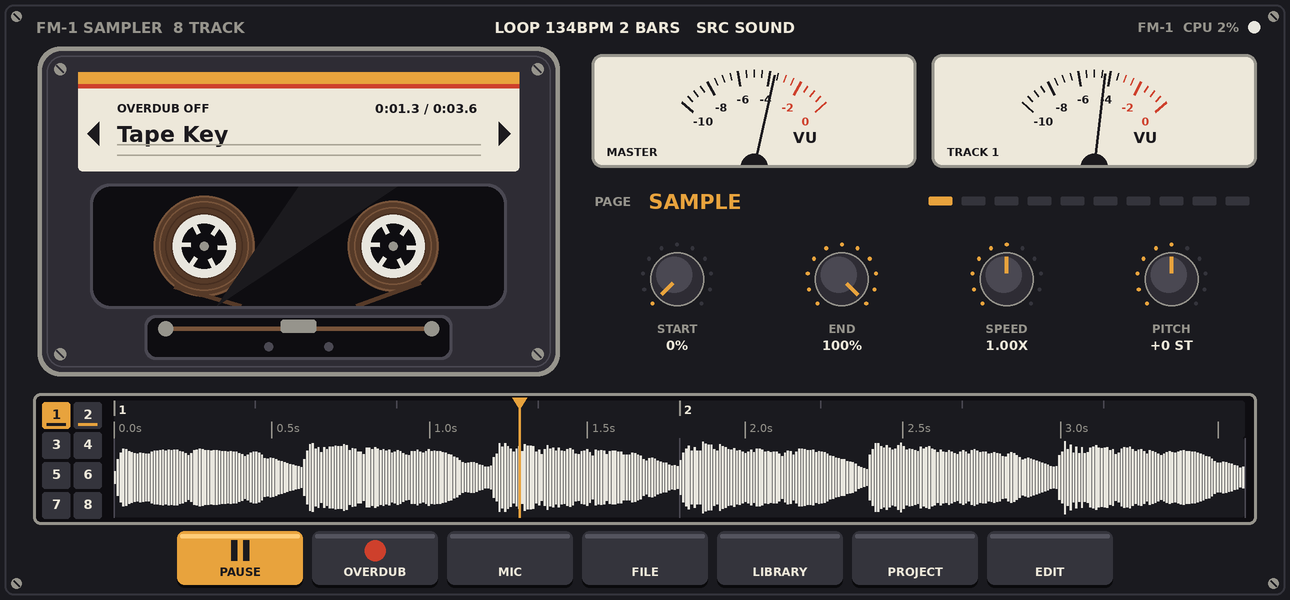
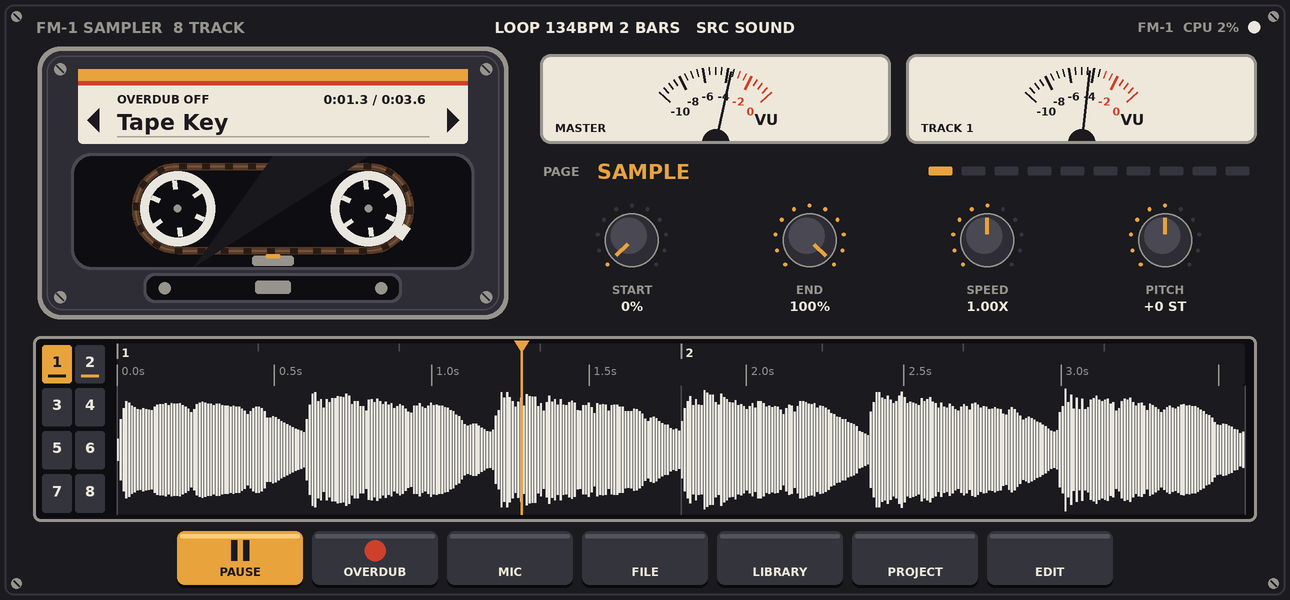
Deck: lower cassette and right panel, taller timeline, cassette shows a tape loop
Claude-Session: https://claude.ai/code/session_016UqCt9T8NsvfVfNVcqrtLq

diff --git a/engine/ui/SamplerUI.cpp b/engine/ui/SamplerUI.cpp
@@ -117,18 +117,15 @@ constexpr uint32_t kPanel = theme::argb(26, 26, 31), kPanelHi = theme::argb(52, 
     kPaper = theme::argb(237, 232, 218), kInk = theme::argb(28, 26, 30), kRed = theme::argb(206, 64, 44), kAmber = theme::argb(232, 163, 61);
 }
 
-// Tape pack of radius r with its winding rings, a white hub with six teeth turned by `ang`.
+// A tape roller: white hub with six teeth turned by `ang`.
 void SamplerUI::reel(float cx, float cy, float r, float ang) {
-    circle(cx, cy, r, kTape);
-    for (float rr = 22; rr < r - 1; rr += 4) stroke({cx - rr, cy - rr, 2 * rr, 2 * rr}, rr, rr < r - 5 ? theme::argb(70, 46, 32) : kTapeHi, 1);
-    stroke({cx - r, cy - r, 2 * r, 2 * r}, r, kTapeHi, 1.5f);
-    circle(cx, cy, 21, kReel);
-    circle(cx, cy, 15, kGlass);
+    circle(cx, cy, r, kReel);
+    circle(cx, cy, r - 6, kGlass);
     for (int k = 0; k < 6; k++) {
         const float a = ang + k * kPi / 3;
-        line(cx + 15 * std::cos(a), cy + 15 * std::sin(a), cx + 9 * std::cos(a), cy + 9 * std::sin(a), kReel, 3.5f);
+        line(cx + (r - 6) * std::cos(a), cy + (r - 6) * std::sin(a), cx + (r - 12) * std::cos(a), cy + (r - 12) * std::sin(a), kReel, 3.2f);
     }
-    circle(cx, cy, 3, kMetal);
+    circle(cx, cy, 2.5f, kMetal);
 }
 
 // Analogue VU meter: cream face, scale with a red end, needle at v (0..1).
@@ -181,7 +178,7 @@ void SamplerUI::cassette(Rect c) {
     stroke({c.x + 3, c.y + 3, c.w - 6, c.h - 6}, 11, kShellHi, 1);
     for (int i = 0; i < 4; i++) { const float sx = c.x + (i & 1 ? c.w - 12 : 12), sy = c.y + (i & 2 ? c.h - 12 : 12); circle(sx, sy, 4, kMetal); line(sx - 2.5f, sy - 2.5f, sx + 2.5f, sy + 2.5f, kShell, 1.2f); }
     // paper label
-    Rect lb{c.x + 24, c.y + 14, c.w - 48, c.h * 0.31f};
+    Rect lb{c.x + 24, c.y + 12, c.w - 48, 50};
     rrect(lb, 3, kPaper);
     rrect({lb.x, lb.y, lb.w, 8}, 0, kAmber); rrect({lb.x, lb.y + 8, lb.w, 3}, 0, kRed);
     std::string title = app_.sampleLabel(t), sub = "TRACK " + std::to_string(t + 1) + "  " + SamplerApp::algoName(app_.algo());
@@ -191,12 +188,12 @@ void SamplerUI::cassette(Rect c) {
     else if (mic == 3) title = "SAVING";
     const std::string ts = app_.toast();
     if (!ts.empty()) sub = ts;
-    text(lb.x + 26, lb.y + 24, 8.5f, kInk, fit(sub, lb.w - 52, 8.5f), 0, true);
-    text(lb.x + 26, lb.y + 41, 16, kInk, fit(title, lb.w - 52, 16), 0, true);
-    for (int i = 0; i < 2; i++) line(lb.x + 26, lb.y + lb.h - 11 + i * 0.f - i * 7, lb.x + lb.w - 26, lb.y + lb.h - 11 - i * 7, theme::argb(170, 165, 150), 1);
+    text(lb.x + 26, lb.y + 20, 8.5f, kInk, fit(sub, lb.w - 130, 8.5f), 0, true);
+    text(lb.x + 26, lb.y + 35, 16, kInk, fit(title, lb.w - 52, 16), 0, true);
+    line(lb.x + 26, lb.y + lb.h - 5, lb.x + lb.w - 26, lb.y + lb.h - 5, theme::argb(170, 165, 150), 1);
     // library arrows on the label, tap the label for the list
-    tri(lb.x + 14, lb.y + 33, lb.x + 6, lb.y + 41, lb.x + 14, lb.y + 49, kInk);
-    tri(lb.x + lb.w - 14, lb.y + 33, lb.x + lb.w - 6, lb.y + 41, lb.x + lb.w - 14, lb.y + 49, kInk);
+    tri(lb.x + 14, lb.y + 26, lb.x + 6, lb.y + 34, lb.x + 14, lb.y + 42, kInk);
+    tri(lb.x + lb.w - 14, lb.y + 26, lb.x + lb.w - 6, lb.y + 34, lb.x + lb.w - 14, lb.y + 42, kInk);
     tap({lb.x + 26, lb.y, lb.w - 52, lb.h}, [this] { sheetOpen_ = true; sheetScroll_ = std::max(0.f, (float)app_.libraryCursor() * 34.f - 100.f); app_.refreshLibrary(); });
     tap({lb.x, lb.y + 10, 26, lb.h - 10}, [this] { app_.browse(-1); });
     tap({lb.x + lb.w - 26, lb.y + 10, 26, lb.h - 10}, [this] { app_.browse(1); });
@@ -205,32 +202,46 @@ void SamplerUI::cassette(Rect c) {
     if (hasLoop) { lsec = (float)(st_.loopSamples / app_.session().sampleRate()); lp = loopPos(); psec = lp * lsec; }
     else if (st_.freeRecording) psec = lsec = st_.freeSeconds;
     char cnt[48]; snprintf(cnt, sizeof cnt, "%d:%04.1f / %d:%04.1f", (int)psec / 60, std::fmod(psec, 60.f), (int)lsec / 60, std::fmod(lsec, 60.f));
-    text(lb.x + lb.w - 28, lb.y + 24, 9, kInk, hasLoop || st_.freeRecording ? cnt : "NO LOOP", 2, true);
-    if (recNow || st_.freeArmed) { if (recNow || (now_ / 400) % 2 == 0) circle(lb.x + 40, lb.y + lb.h - 22, 4.5f, kRed); }
-    // window with the reels
-    Rect wd{c.x + c.w * 0.1f, lb.y + lb.h + 10, c.w * 0.8f, c.h - (lb.h + 14) - 10 - 44};
+    text(lb.x + lb.w - 28, lb.y + 20, 9, kInk, hasLoop || st_.freeRecording ? cnt : "NO LOOP", 2, true);
+    if (recNow || st_.freeArmed) { if (recNow || (now_ / 400) % 2 == 0) circle(lb.x + lb.w - 18, lb.y + 36, 4.5f, kRed); }
+    // window: a tape LOOP. The tape is one closed ribbon around two rollers; it runs once round per loop and the splice shows where the loop starts.
+    Rect wd{c.x + c.w * 0.07f, lb.y + lb.h + 8, c.w * 0.86f, c.h - (lb.h + 12) - 8 - 32};
     rrect({wd.x - 2, wd.y - 2, wd.w + 4, wd.h + 4}, 13, kShellHi);
     rrect(wd, 12, kGlass);
-    const float cy = wd.y + wd.h / 2, rmax = wd.h / 2 - 2, rmin = 26;
-    float p = hasLoop ? lp : std::min(1.f, st_.freeSeconds / 60.f), ang = hasLoop ? -lp * 2 * kPi * 6 : st_.freeRecording ? -(float)now_ * 0.004f : 0.f;
-    if (!hasLoop && !st_.freeRecording) p = 0.5f;
-    const float rl = rmin + (rmax - rmin) * (1 - p), rr = rmin + (rmax - rmin) * p;
-    const float lx = wd.x + wd.w * 0.27f, rx = wd.x + wd.w * 0.73f;
+    const float cy = wd.y + wd.h / 2 - 2, rho = (wd.h - 18) / 2, rr = rho - 3;
+    const float cxL = wd.x + wd.w * 0.26f, cxR = wd.x + wd.w * 0.74f, L = cxR - cxL, arc = kPi * rho, per = 2 * L + 2 * arc;
+    float turn = hasLoop ? lp : st_.freeRecording ? std::fmod((float)now_ / 2500.f, 1.f) : 0.f;
+    auto at = [&](float sp, float& x, float& y, float& tx, float& ty) {   // point and direction at distance sp along the ribbon
+        sp = std::fmod(sp + per, per);
+        if (sp < L) { x = cxL + sp; y = cy + rho; tx = 1; ty = 0; }
+        else if (sp < L + arc) { const float f = (sp - L) / rho; x = cxR + rho * std::sin(f); y = cy + rho * std::cos(f); tx = std::cos(f); ty = -std::sin(f); }
+        else if (sp < 2 * L + arc) { x = cxR - (sp - L - arc); y = cy - rho; tx = -1; ty = 0; }
+        else { const float f = (sp - 2 * L - arc) / rho; x = cxL - rho * std::sin(f); y = cy - rho * std::cos(f); tx = -std::cos(f); ty = std::sin(f); }
+    };
     clip(wd);
-    reel(lx, cy, rl, ang); reel(rx, cy, rr, ang);
-    // tape: from the packs to the bottom guides, a sheen on the glass
-    line(lx - rl * 0.6f, cy + rl * 0.8f, wd.x + wd.w * 0.36f, wd.y + wd.h, kTape, 3);
-    line(rx + rr * 0.6f, cy + rr * 0.8f, wd.x + wd.w * 0.64f, wd.y + wd.h, kTape, 3);
-    tri(wd.x + wd.w * 0.5f, wd.y, wd.x + wd.w * 0.74f, wd.y, wd.x + wd.w * 0.30f, wd.y + wd.h, theme::withAlpha(0xffffff, 14));
+    reel(cxL, cy, rr, -turn * 2 * kPi * 4); reel(cxR, cy, rr, -turn * 2 * kPi * 4);
+    const int segs = 96;
+    float px, py2, ux, uy;
+    at(0, px, py2, ux, uy);
+    for (int i = 1; i <= segs; i++) { float x, y; at(per * i / segs, x, y, ux, uy); line(px, py2, x, y, kTape, 5); px = x; py2 = y; }
+    at(0, px, py2, ux, uy);
+    for (int i = 1; i <= segs; i++) { float x, y; at(per * i / segs, x, y, ux, uy); line(px, py2, x, y, kTapeHi, 1.2f); px = x; py2 = y; }
+    const int marks = 28;   // dust and oxide marks travelling with the tape; marks * spacing == the whole ribbon, so the wrap of one loop is seamless
+    for (int i = 0; i < marks; i++) { float x, y; at(turn * per + per * i / marks, x, y, ux, uy); line(x - ux * 2.5f, y - uy * 2.5f, x + ux * 2.5f, y + uy * 2.5f, theme::argb(40, 28, 20), 4); }
+    {   // the splice: a patch of lighter tape where the loop is joined (= position 0 of the loop)
+        float x, y; at(turn * per, x, y, ux, uy);
+        line(x - ux * 5, y - uy * 5, x + ux * 5, y + uy * 5, recNow ? kRed : kReel, 6);
+    }
+    // the head under the bottom run
+    rrect({(cxL + cxR) / 2 - 14, cy + rho + 3.5f, 28, 7}, 2, kMetal);
+    rrect({(cxL + cxR) / 2 - 5, cy + rho + 2.5f, 10, 3}, 1, hasLoop && st_.playing ? kAmber : kShellHi);
+    tri(wd.x + wd.w * 0.5f, wd.y, wd.x + wd.w * 0.74f, wd.y, wd.x + wd.w * 0.30f, wd.y + wd.h, theme::withAlpha(0xffffff, 12));
     endClip();
-    // head plate with rollers and the tape across the head
-    Rect pl{c.x + c.w * 0.2f, c.y + c.h - 38, c.w * 0.6f, 30};
+    // bottom guard of the cassette
+    Rect pl{c.x + c.w * 0.22f, c.y + c.h - 28, c.w * 0.56f, 20};
     rrect(pl, 7, kShellHi); rrect({pl.x + 2, pl.y + 2, pl.w - 4, pl.h - 4}, 6, kGlass);
-    const float ry = pl.y + 9;
-    line(pl.x + 14, ry, pl.x + pl.w - 14, ry, hasLoop && st_.playing ? kTapeHi : kTape, 3);
-    circle(pl.x + 14, ry, 5, kMetal); circle(pl.x + pl.w - 14, ry, 5, kMetal);
-    rrect({pl.x + pl.w / 2 - 12, pl.y + 3, 24, 9}, 2, kMetal);
-    circle(pl.x + pl.w / 2 - 20, pl.y + 21, 3, kShellHi); circle(pl.x + pl.w / 2 + 20, pl.y + 21, 3, kShellHi);
+    circle(pl.x + 14, pl.y + 10, 4, kMetal); circle(pl.x + pl.w - 14, pl.y + 10, 4, kMetal);
+    rrect({pl.x + pl.w / 2 - 12, pl.y + 5, 24, 9}, 2, kMetal);
 }
 
 float SamplerUI::loopPos() const {
@@ -246,14 +257,14 @@ void SamplerUI::timeline(Rect r) {
     const int t = app_.track();
     // the eight tracks as chips on the left
     for (int i = 0; i < 8; i++) {
-        Rect c{r.x + 4 + (i % 2) * 21.f, r.y + 4 + (i / 2) * 20.f, 19, 18};
+        const float chh = (r.h - 8 - 3 * 3) / 4; Rect c{r.x + 4 + (i % 2) * 22.f, r.y + 4 + (i / 2) * (chh + 3), 20, chh};
         const bool sel = i == t;
         rrect(c, 2, sel ? kAmber : kPanelHi);
-        text(c.x + 9.5f, c.y + 8, 9.5f, sel ? kInk : kPaper, std::to_string(i + 1), 1, true);
-        if (st_.track_clip_rec[i]) rrect({c.x + 3, c.y + 14, 13, 2}, 0, kRed); else if (st_.track_has_clip[i]) rrect({c.x + 3, c.y + 14, 13, 2}, 0, sel ? kInk : kAmber);
+        text(c.x + 10, c.y + chh / 2 - 2, 10.5f, sel ? kInk : kPaper, std::to_string(i + 1), 1, true);
+        if (st_.track_clip_rec[i]) rrect({c.x + 4, c.y + chh - 6, 12, 2}, 0, kRed); else if (st_.track_has_clip[i]) rrect({c.x + 4, c.y + chh - 6, 12, 2}, 0, sel ? kInk : kAmber);
         tap({c.x - 1, c.y - 1, c.w + 2, c.h + 2}, [this, i] { app_.selectTrack(i); });
     }
-    const float tx = r.x + 52, tw = r.w - 52 - 6, rh = 25, wy = r.y + rh + 3, wh = r.h - rh - 6;
+    const float tx = r.x + 54, tw = r.w - 54 - 6, rh = 28, wy = r.y + rh + 3, wh = r.h - rh - 6;
     const bool hasLoop = app_.loopExists() && st_.loopSamples > 0;
     const float sr = (float)app_.session().sampleRate(), loopSec = hasLoop ? (float)(st_.loopSamples / sr) : 0.f;
     rrect({tx, r.y + 3, tw, rh}, 2, kPanel);
@@ -325,16 +336,16 @@ void SamplerUI::deck(Rect r) {
     circle(W_ - 24, 18, 4, linkMidi_ && linkAudio_ ? kReel : linkMidi_ ? kAmber : kShellHi);
     text(W_ - 34, 18, 9.5f, kMetal, std::string(linkMidi_ ? "FM-1  " : "NO FM-1  ") + "CPU " + num("%.0f", st_.cpu_permille / 10.0) + "%", 2, true);
     // centre: the cassette, VU needles and knobs on both sides
-    const float top = 34, ch = 214, cw = std::min(ch * 1.6f, W_ * 0.42f);
+    const float top = 34, ch = 176, cw = std::min(ch * 1.75f, W_ * 0.42f);
     const float cxl = 28, zr = W_ - 24, x0 = cxl + cw + 26, w0 = zr - x0;
     cassette({cxl, top, cw, ch});
     // right side: the VU needles (master, selected track), the selected page and its four knobs in a line
     auto smooth = [](float& vu, float peak) { const float db = peak > 1e-4f ? 20 * std::log10(peak) : -80.f; const float t = clamp01((db + 38.f) / 41.f); vu += (t - vu) * (t > vu ? 0.55f : 0.14f); return vu; };
     const float vl = smooth(vu_[0], st_.master_peak), vr = smooth(vu_[1], st_.track_peak[app_.track()]);
-    const float vw = (w0 - 14) / 2, vh = 72;
+    const float vw = (w0 - 14) / 2, vh = 56;
     vu({x0, top + 4, vw, vh}, vl, "MASTER");
     vu({x0 + vw + 14, top + 4, vw, vh}, vr, "TRACK " + std::to_string(app_.track() + 1));
-    const float py = top + vh + 28;
+    const float py = top + vh + 24;
     text(x0, py, 9, kMetal, "PAGE", 0, true);
     text(x0 + 36, py, 15, kAmber, SamplerApp::pageName(app_.page()), 0, true);
     for (int i = 0; i < 10; i++) {   // the pages as notches: tap one to go there (the FM-1 buttons do the same)
@@ -342,10 +353,10 @@ void SamplerUI::deck(Rect r) {
         rrect({nr.x + 3, py - 3, 16, 6}, 1, kTabs[i] == app_.page() ? kAmber : kPanelHi);
         tap(nr, [this, i] { app_.gotoPage(kTabs[i]); });
     }
-    const float ky = py + 52;
+    const float ky = py + 46;
     for (int i = 0; i < 4; i++) knob(x0 + w0 * (i + 0.5f) / 4, ky, app_.page(), i);
     // the loops
-    timeline({24, top + ch + 16, W_ - 48, 84});
+    timeline({24, top + ch + 16, W_ - 48, H_ - 46 - 8 - (top + ch + 16)});
     // transport keys
     const float ty = H_ - 46, kw = std::min(84.f, (W_ - 60) / 9.f), gap = 6;
     struct K { const char* l; int icon; bool on; std::function<void()> f; };

diff --git a/README.md b/README.md
@@ -65,7 +65,7 @@ At start: Tape Key on track 1, Acoustic bass on 2, Shiny on 3, TrapKit (KIT) on 
 - `engine/dsp/Reverb.h` (8 combs + 4 allpasses per side), `TapeDelay.h`, `TapeInsert.h`, `Arp.h` (UP, DOWN, UPDN, CONV, RAND over 1..4 octaves, sample accurate gate), `Wav.*`.
 - `engine/session/Session.*`: tracks, mixer, LFO (once per block, ~170 Hz: pitch, filter, volume or pan), looper, mic recorder, library listing, command queue to the audio thread, worker thread. `status()` is lock-free.
 - `engine/app/SamplerApp.*`: all behaviour: knob pages (`knobs(Page)` is the single source for FM-1 and phone), per-track state, library, looper, FM-1 screen drawing and LEDs, SysEx pacing and loss recovery.
-- `engine/ui/SamplerUI.*`: the phone UI as draw ops. Default view = full-screen tape deck (`deck`: `cassette`, `vu` x2 (master, selected track), `knob` x8 (tape page left, mixer page of the selected track right), `timeline` = one timeline of the selected track (bars + seconds ruler, waveform, playhead, drag to scrub via `Session::seek`), track chips 1..8 on its left, `key` transport row PLAY, REC, SAVE, CLEAR, MIC, FILE, LIBRARY, EDIT; own colours, not themed). EDIT switches to the older editor (left tracks, centre sample/waveform with draggable START/END, voice markers, whole-loop lane, right page tabs + 4 sliders, library sheet). `ui/UiOp.h`, `Theme.h` (paper/ink/amber, square corners).
+- `engine/ui/SamplerUI.*`: the phone UI as draw ops. Default view = full-screen tape deck (`deck`: `cassette` (a tape LOOP: one closed ribbon round two rollers, runs once round per loop, splice = loop start), `vu` x2 (master, selected track), `knob` x8 (tape page left, mixer page of the selected track right), `timeline` = one timeline of the selected track (bars + seconds ruler, waveform, playhead, drag to scrub via `Session::seek`), track chips 1..8 on its left, `key` transport row PLAY, REC, SAVE, CLEAR, MIC, FILE, LIBRARY, EDIT; own colours, not themed). EDIT switches to the older editor (left tracks, centre sample/waveform with draggable START/END, voice markers, whole-loop lane, right page tabs + 4 sliders, library sheet). `ui/UiOp.h`, `Theme.h` (paper/ink/amber, square corners).
 - `android/`: `Backend` (FM-1 USB MIDI + USB audio routing, Oboe, 30 Hz tick), `SamplerActivity` (file picker, mic permission), `AudioImport`, `SamplerView` (replays ops), `native-lib.cpp`. Package `com.ferluht.fm1sampler`, lib `fm1sampler`.
 - `firmware/`: the FM-1 firmware (M-VAVE's open firmware with the control-surface protocol of `PROTOCOL.md`). `firmware/FM1-Sampler-Workbench.html` is the flash page; `tools/build_fw.py firmware ~/fm1/wine/drive_c/JL/pi32` rebuilds it (JieLi toolchain under wine, ~30 s). Changes in `app/ctrl.c`: SEL (BTN_SCL) forwarded to the app (no on-device scale screen), splash "SAMPLER".
 
